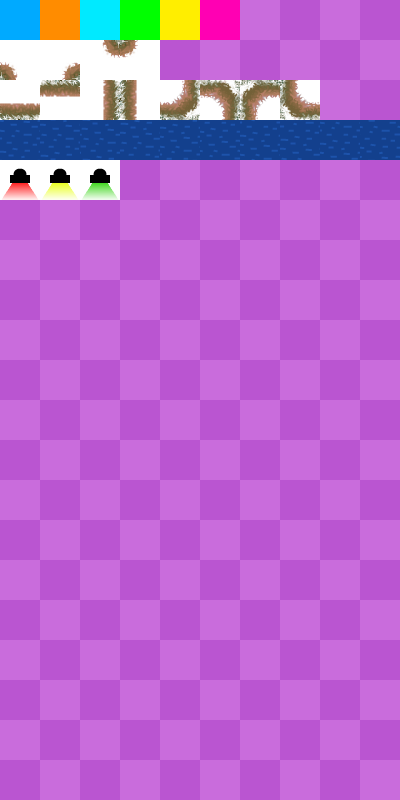
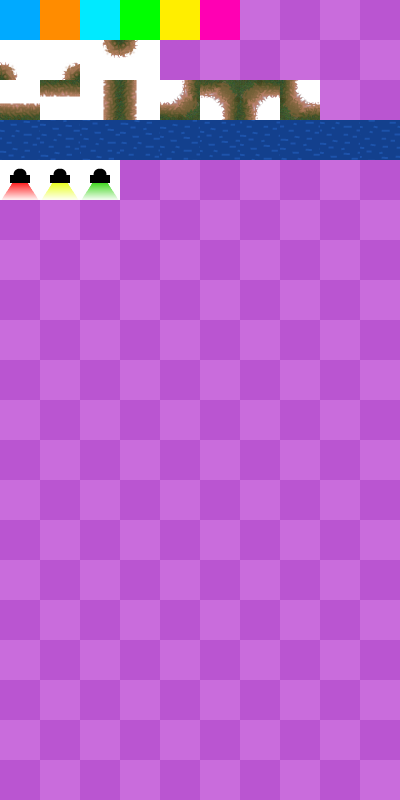
Supports shores
Files with shoreline data can be added and will be used by the
WorldBuilder

diff --git a/src/model/world/WorldBuilder.java b/src/model/world/WorldBuilder.java
@@ -37,6 +37,9 @@ public class WorldBuilder {
 			{0,1,1,1,2,2,2,2,2,0},
 			{0,0,0,0,0,0,0,0,0,0},
 	};
+	private static final int WATER = 0;
+	private static final int LAND = 1;
+	private static final int ROAD = 2;
 	
 	/**
 	 * Creates a new default world builder.
@@ -94,22 +97,41 @@ public class WorldBuilder {
 			}
 		}
 		
+		this.addTiles(tiles, 50, 50, "shoreline/10x10_shore_EW.lot");
+		
+		//Adds the right road part to the world.
 		for(int x = 0; x < mapTest.length; x++) {
 			for(int y = 0; y < mapTest[0].length; y++) {
-				if(mapTest[x][y] == 0) {
+				if(mapTest[x][y] == WATER) {
 					this.addTiles(tiles, x*10, y*10, "lots/water.lot");
-				}else if(mapTest[x][y] == 2) {
-					StringBuilder sb = new StringBuilder("road/10x10_road_");
-					if(mapTest[x][y-1] == 2) {
+				}else if(mapTest[x][y] == LAND) {
+					StringBuilder sb = new StringBuilder("shoreline/10x10_shore_");
+					if(mapTest[x][y-1] == WATER) {
 						sb.append('N');
 					}
-					if(mapTest[x+1][y] == 2) {
+					if(mapTest[x+1][y] == WATER) {
 						sb.append('E');
 					}
-					if(mapTest[x][y+1] == 2) {
+					if(mapTest[x][y+1] == WATER) {
 						sb.append('S');
 					}
-					if(mapTest[x-1][y] == 2) {
+					if(mapTest[x-1][y] == WATER) {
+						sb.append('W');
+					}
+					sb.append(".lot");
+					this.addTiles(tiles, x*10, y*10, sb.toString());
+				}else if(mapTest[x][y] == ROAD) {
+					StringBuilder sb = new StringBuilder("road/10x10_road_");
+					if(mapTest[x][y-1] == ROAD) {
+						sb.append('N');
+					}
+					if(mapTest[x+1][y] == ROAD) {
+						sb.append('E');
+					}
+					if(mapTest[x][y+1] == ROAD) {
+						sb.append('S');
+					}
+					if(mapTest[x-1][y] == ROAD) {
 						sb.append('W');
 					}
 					sb.append(".lot");
@@ -117,10 +139,7 @@ public class WorldBuilder {
 				}
 			}
 		}
-		
-		//TODO: ta bort.
-		this.addTiles(tiles, 50, 30, "lots/misc/10x10_testplace.lot");
-		
+				
 		return tiles;
 	}
 	
@@ -246,7 +265,7 @@ public class WorldBuilder {
 						}
 					}
 					//Add prop number to file.
-					for(int i = 0; 0 < t.getProps().size(); i++) {
+					for(int i = 0; i < t.getProps().size(); i++) {
 						temp += ",p" + t.getProps().get(i).getImageNbr();
 					}
 					

diff --git a/src/model/world/props/PropFactory.java b/src/model/world/props/PropFactory.java
@@ -16,7 +16,6 @@ public class PropFactory {
 	 * Global animation of water, should be synchronised with all the water in the world.
 	 */
 	private static final Animation WATER = new Animation(new int[]{30,31,32,33,34,35,36,37,38,39}, 200, true);
-	
 	private static final Animation TRAFFIC_LIGHT_S = new Animation(new int[]{40,40,40,41,42,42,42,41}, 2500, true);
 	
 	/**
@@ -33,7 +32,7 @@ public class PropFactory {
 		case 10: case 11: case 12: case 13: 
 		case 20: case 21: case 22: case 23: case 24: case 25: case 26: case 27:
 			return new Prop(null, propNbr); //water edges
-		case 30: case 31: case 32: case 33: case 34: 	
+		case 30: case 31: case 32: case 33: case 34: case 35: case 36: case 37: case 38: case 39: 	
 			return new AnimatedProp(null, WATER); //animated water
 		case 40: case 41: case 42:
 			return new AnimatedProp(new Rectangle(pos.getX() + 0.25f, pos.getY() + 0.2f, 0.5f, 0.375f), 

diff --git a/src/controller/GameController.java b/src/controller/GameController.java
@@ -40,7 +40,6 @@ public class GameController extends Thread {
 		
 		model.getWorld().addSprite(EnemyFactory.createEasyEnemy(new Position (55, 55)));
 		model.getWorld().addSprite(EnemyFactory.createMediumEnemy(new Position (45, 45)));
-		this.start();
 		
 	}
 	
